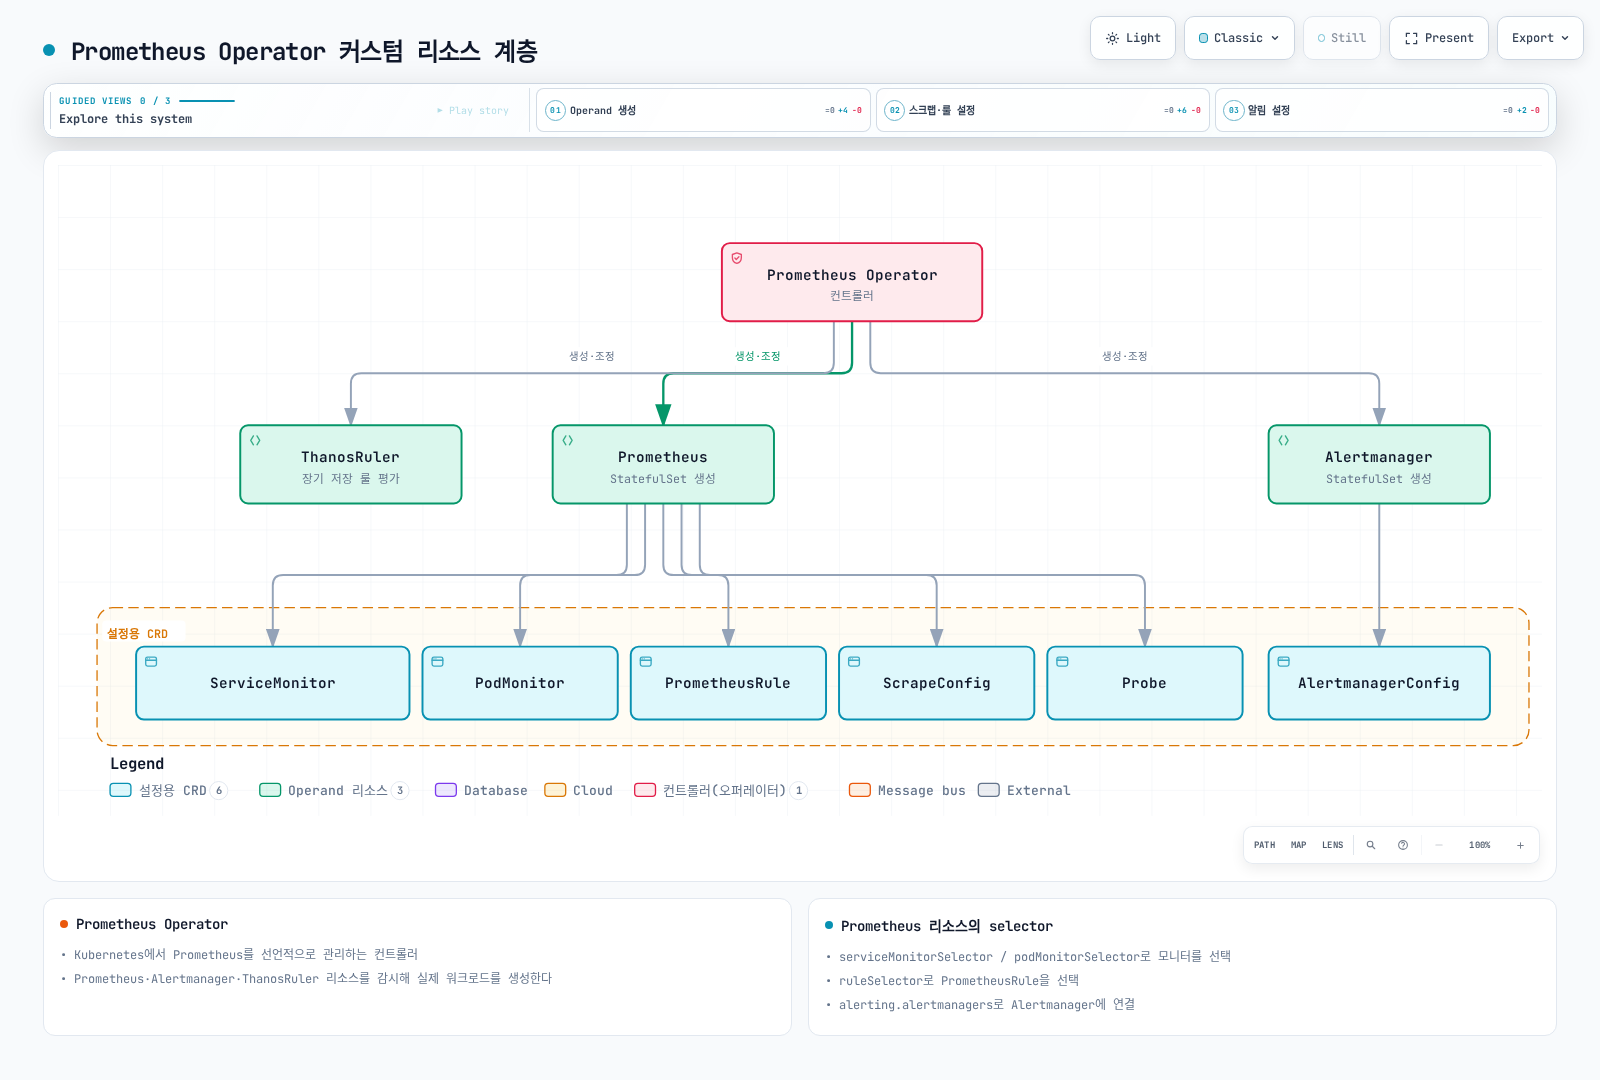
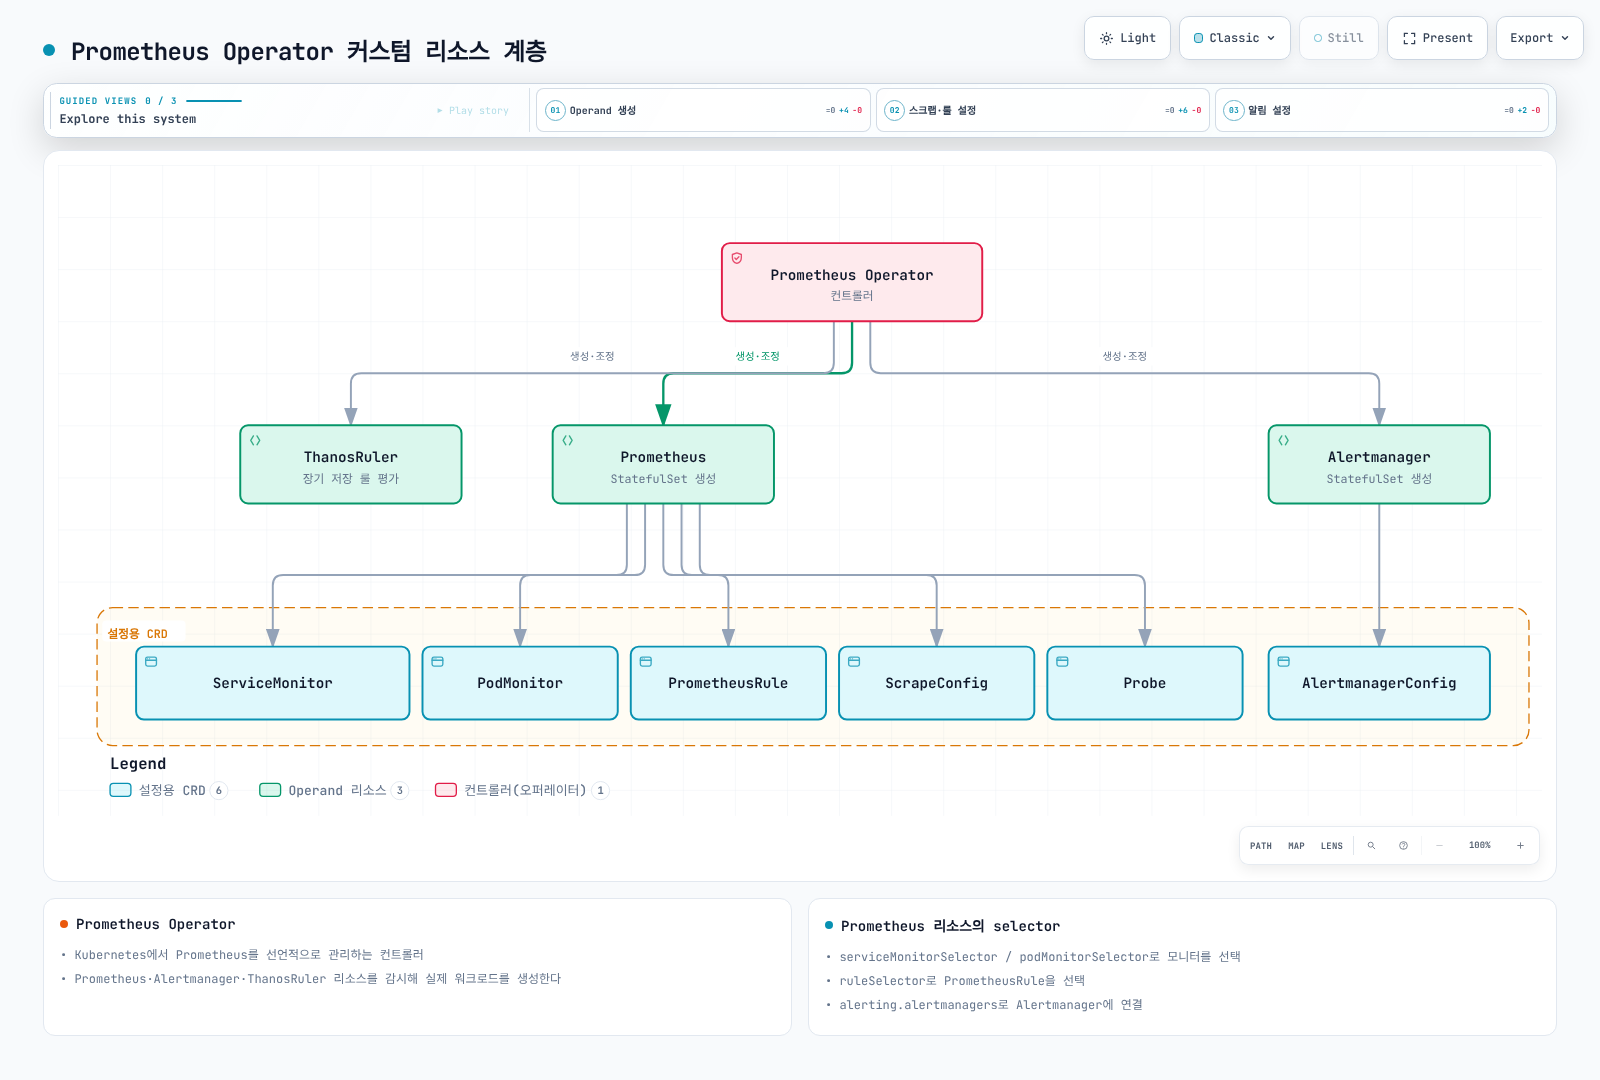
fix(observability): address content-review warnings
- en metrics README stems renumbered 10-13 -> 0-3
- metrics-01-prometheus-1 legend mode all -> auto (no empty categories)
- ko alertmanager alt ending normalised
- en alerting README: hybrid pipeline figure moved under Hybrid Approach, on-call Gantt under On-Call Concept

diff --git a/public/archmaps/ko-observability-metrics-01-prometheus-1.html b/public/archmaps/ko-observability-metrics-01-prometheus-1.html
@@ -5204,25 +5204,9 @@
             <rect x="155" y="475" width="16" height="10" rx="2.5" class="c-backend" stroke-width="1"/>
             <text x="177" y="484" class="t-muted" font-size="10" font-weight="500">Operand 리소스</text>
           </g>
-          <g data-legend-semantic-kind="database" data-legend-x="290" data-legend-baseline="484" data-legend-width="62">
-            <rect x="290" y="475" width="16" height="10" rx="2.5" class="c-database" stroke-width="1"/>
-            <text x="312" y="484" class="t-muted" font-size="10" font-weight="500">Database</text>
-          </g>
-          <g data-legend-semantic-kind="cloud" data-legend-x="374" data-legend-baseline="484" data-legend-width="47">
-            <rect x="374" y="475" width="16" height="10" rx="2.5" class="c-cloud" stroke-width="1"/>
-            <text x="396" y="484" class="t-muted" font-size="10" font-weight="500">Cloud</text>
-          </g>
-          <g data-legend-semantic-kind="security" data-legend-kind="security" data-legend-label="컨트롤러(오퍼레이터)" data-legend-x="443" data-legend-baseline="484" data-legend-width="143">
-            <rect x="443" y="475" width="16" height="10" rx="2.5" class="c-security" stroke-width="1"/>
-            <text x="465" y="484" class="t-muted" font-size="10" font-weight="500">컨트롤러(오퍼레이터)</text>
-          </g>
-          <g data-legend-semantic-kind="messagebus" data-legend-x="608" data-legend-baseline="484" data-legend-width="77">
-            <rect x="608" y="475" width="16" height="10" rx="2.5" class="c-messagebus" stroke-width="1"/>
-            <text x="630" y="484" class="t-muted" font-size="10" font-weight="500">Message bus</text>
-          </g>
-          <g data-legend-semantic-kind="external" data-legend-x="707" data-legend-baseline="484" data-legend-width="62">
-            <rect x="707" y="475" width="16" height="10" rx="2.5" class="c-external" stroke-width="1"/>
-            <text x="729" y="484" class="t-muted" font-size="10" font-weight="500">External</text>
+          <g data-legend-semantic-kind="security" data-legend-kind="security" data-legend-label="컨트롤러(오퍼레이터)" data-legend-x="290" data-legend-baseline="484" data-legend-width="143">
+            <rect x="290" y="475" width="16" height="10" rx="2.5" class="c-security" stroke-width="1"/>
+            <text x="312" y="484" class="t-muted" font-size="10" font-weight="500">컨트롤러(오퍼레이터)</text>
           </g>
         </g>
       </svg>

diff --git a/public/archmaps/en-observability-metrics-01-prometheus-1.html b/public/archmaps/en-observability-metrics-01-prometheus-1.html
@@ -5204,25 +5204,9 @@
             <rect x="195" y="475" width="16" height="10" rx="2.5" class="c-backend" stroke-width="1"/>
             <text x="217" y="484" class="t-muted" font-size="10" font-weight="500">Operand resources</text>
           </g>
-          <g data-legend-semantic-kind="database" data-legend-x="345" data-legend-baseline="484" data-legend-width="62">
-            <rect x="345" y="475" width="16" height="10" rx="2.5" class="c-database" stroke-width="1"/>
-            <text x="367" y="484" class="t-muted" font-size="10" font-weight="500">Database</text>
-          </g>
-          <g data-legend-semantic-kind="cloud" data-legend-x="429" data-legend-baseline="484" data-legend-width="47">
-            <rect x="429" y="475" width="16" height="10" rx="2.5" class="c-cloud" stroke-width="1"/>
-            <text x="451" y="484" class="t-muted" font-size="10" font-weight="500">Cloud</text>
-          </g>
-          <g data-legend-semantic-kind="security" data-legend-kind="security" data-legend-label="Controller (Operator)" data-legend-x="498" data-legend-baseline="484" data-legend-width="148">
-            <rect x="498" y="475" width="16" height="10" rx="2.5" class="c-security" stroke-width="1"/>
-            <text x="520" y="484" class="t-muted" font-size="10" font-weight="500">Controller (Operator)</text>
-          </g>
-          <g data-legend-semantic-kind="messagebus" data-legend-x="668" data-legend-baseline="484" data-legend-width="77">
-            <rect x="668" y="475" width="16" height="10" rx="2.5" class="c-messagebus" stroke-width="1"/>
-            <text x="690" y="484" class="t-muted" font-size="10" font-weight="500">Message bus</text>
-          </g>
-          <g data-legend-semantic-kind="external" data-legend-x="767" data-legend-baseline="484" data-legend-width="62">
-            <rect x="767" y="475" width="16" height="10" rx="2.5" class="c-external" stroke-width="1"/>
-            <text x="789" y="484" class="t-muted" font-size="10" font-weight="500">External</text>
+          <g data-legend-semantic-kind="security" data-legend-kind="security" data-legend-label="Controller (Operator)" data-legend-x="345" data-legend-baseline="484" data-legend-width="148">
+            <rect x="345" y="475" width="16" height="10" rx="2.5" class="c-security" stroke-width="1"/>
+            <text x="367" y="484" class="t-muted" font-size="10" font-weight="500">Controller (Operator)</text>
           </g>
         </g>
       </svg>

diff --git a/en/observability/metrics/README.md b/en/observability/metrics/README.md
@@ -154,9 +154,9 @@ http_request_duration_seconds{quantile="0.99"}           # p99 latency (direct q
 
 There are two main models for metrics collection:
 
-![Diagram comparing the pull model, where a Prometheus server scrapes /metrics endpoints from applications over HTTP GET, against the push model, where applications send metrics via HTTP POST to a central collector such as Datadog or CloudWatch.](../../.gitbook/assets/en-observability-metrics-readme-10.png)
+![Diagram comparing the pull model, where a Prometheus server scrapes /metrics endpoints from applications over HTTP GET, against the push model, where applications send metrics via HTTP POST to a central collector such as Datadog or CloudWatch.](../../.gitbook/assets/en-observability-metrics-readme-0.png)
 
-[🔍 View interactive diagram](https://www.atomai.click/kubernetes-docs/archmaps/en-observability-metrics-readme-10.html)
+[🔍 View interactive diagram](https://www.atomai.click/kubernetes-docs/archmaps/en-observability-metrics-readme-0.html)
 
 ### Pull Model
 
@@ -306,9 +306,9 @@ count(count by (endpoint)(http_requests_total))
 
 Prometheus is an excellent real-time monitoring tool but has limitations for long-term data storage:
 
-![Diagram showing Prometheus, with 15-30 day retention, serving real-time alerts, recent trends, and immediate debugging directly, while forwarding data via remote_write into long-term storage (VictoriaMetrics, Mimir, or Thanos) kept 1+ year for capacity planning, annual trends, compliance, and cost analysis.](../../.gitbook/assets/en-observability-metrics-readme-11.png)
+![Diagram showing Prometheus, with 15-30 day retention, serving real-time alerts, recent trends, and immediate debugging directly, while forwarding data via remote_write into long-term storage (VictoriaMetrics, Mimir, or Thanos) kept 1+ year for capacity planning, annual trends, compliance, and cost analysis.](../../.gitbook/assets/en-observability-metrics-readme-1.png)
 
-[🔍 View interactive diagram](https://www.atomai.click/kubernetes-docs/archmaps/en-observability-metrics-readme-11.html)
+[🔍 View interactive diagram](https://www.atomai.click/kubernetes-docs/archmaps/en-observability-metrics-readme-1.html)
 
 **Problems with Prometheus long-term storage**:
 
@@ -383,17 +383,17 @@ remote_write:
 
 ### Selection Guide
 
-![Decision tree for picking a metrics stack: starting from team size and operational capability, it branches on AWS environment for small teams, cost priority for medium teams, and multi-cloud need for large/expert teams, ending at CloudWatch, Datadog, VictoriaMetrics, Amazon Managed Prometheus, or an AMP + Grafana managed setup.](../../.gitbook/assets/en-observability-metrics-readme-12.png)
+![Decision tree for picking a metrics stack: starting from team size and operational capability, it branches on AWS environment for small teams, cost priority for medium teams, and multi-cloud need for large/expert teams, ending at CloudWatch, Datadog, VictoriaMetrics, Amazon Managed Prometheus, or an AMP + Grafana managed setup.](../../.gitbook/assets/en-observability-metrics-readme-2.png)
 
-[🔍 View interactive diagram](https://www.atomai.click/kubernetes-docs/archmaps/en-observability-metrics-readme-12.html)
+[🔍 View interactive diagram](https://www.atomai.click/kubernetes-docs/archmaps/en-observability-metrics-readme-2.html)
 
 ## Metrics Collection Architecture
 
 ### Kubernetes Environment Metrics Collection Structure
 
-![Diagram showing node-exporter, kube-state-metrics, cAdvisor, and application /metrics endpoints scraped by Prometheus or vmagent, which writes to short-term Prometheus TSDB and via remote_write to long-term VictoriaMetrics; both feed Grafana, and TSDB feeds Alertmanager.](../../.gitbook/assets/en-observability-metrics-readme-13.png)
+![Diagram showing node-exporter, kube-state-metrics, cAdvisor, and application /metrics endpoints scraped by Prometheus or vmagent, which writes to short-term Prometheus TSDB and via remote_write to long-term VictoriaMetrics; both feed Grafana, and TSDB feeds Alertmanager.](../../.gitbook/assets/en-observability-metrics-readme-3.png)
 
-[🔍 View interactive diagram](https://www.atomai.click/kubernetes-docs/archmaps/en-observability-metrics-readme-13.html)
+[🔍 View interactive diagram](https://www.atomai.click/kubernetes-docs/archmaps/en-observability-metrics-readme-3.html)
 
 ### Key Metric Sources
 

diff --git a/en/observability/alerting/README.md b/en/observability/alerting/README.md
@@ -265,6 +265,10 @@ Set up time-based escalation policies to ensure alerts are not ignored:
 
 On-call refers to a designated responder responsible for system issues during a specified period.
 
+![Gantt chart showing four SRE engineers each taking a sequential seven-day on-call shift over four weeks.](../../.gitbook/assets/en-observability-alerting-readme-8.png)
+
+[🔍 View interactive diagram](https://www.atomai.click/kubernetes-docs/archmaps/en-observability-alerting-readme-8.html)
+
 ![Flowchart showing an alert routed first by severity to a phone, PagerDuty, Slack, or email channel, then, for the three actionable severities, routed again by owning team to SRE, dev, DBA, or security.](../../.gitbook/assets/en-observability-alerting-readme-5.png)
 
 [🔍 View interactive diagram](https://www.atomai.click/kubernetes-docs/archmaps/en-observability-alerting-readme-5.html)
@@ -432,10 +436,6 @@ EKS integrates with various AWS services, so alerts for these are also needed:
 
 ### Solution Selection Guide
 
-![Architecture diagram of a hybrid alerting pipeline: Prometheus and CloudWatch feed Alertmanager, which routes to Grafana OnCall and PagerDuty for on-call management, fanning out to Slack, email, and SMS notification channels.](../../.gitbook/assets/en-observability-alerting-readme-7.png)
-
-[🔍 View interactive diagram](https://www.atomai.click/kubernetes-docs/archmaps/en-observability-alerting-readme-7.html)
-
 #### Recommended Solutions by Situation
 
 1. **Small team, cost-conscious**: Alertmanager + Slack
@@ -448,9 +448,9 @@ EKS integrates with various AWS services, so alerts for these are also needed:
 
 Most production environments use a combination of solutions:
 
-![Gantt chart showing four SRE engineers each taking a sequential seven-day on-call shift over four weeks.](../../.gitbook/assets/en-observability-alerting-readme-8.png)
+![Architecture diagram of a hybrid alerting pipeline: Prometheus and CloudWatch feed Alertmanager, which routes to Grafana OnCall and PagerDuty for on-call management, fanning out to Slack, email, and SMS notification channels.](../../.gitbook/assets/en-observability-alerting-readme-7.png)
 
-[🔍 View interactive diagram](https://www.atomai.click/kubernetes-docs/archmaps/en-observability-alerting-readme-8.html)
+[🔍 View interactive diagram](https://www.atomai.click/kubernetes-docs/archmaps/en-observability-alerting-readme-7.html)
 
 **Recommended Architecture:**
 

diff --git a/ko/observability/alerting/01-alertmanager.md b/ko/observability/alerting/01-alertmanager.md
@@ -621,7 +621,7 @@ curl -X POST http://alertmanager:9093/api/v2/silences \
 
 ### Silence 관리 모범 사례
 
-![Silence가 필요할 때 유지보수·배포·조사 중·알려진 이슈 유형에 따라 기간(계획된 시간, 배포 완료까지, 최대 4시간, 수정 완료까지)을 정하고 명확한 코멘트를 남긴 뒤, 정기 검토를 거쳐 만료된 Silence는 자동 제거되고 아직 만료되지 않은 Silence는 수동 검토로 이어지는 흐름을 보여줍니다.](../../.gitbook/assets/ko-observability-alerting-01-alertmanager-5.png)
+![Silence가 필요할 때 유지보수·배포·조사 중·알려진 이슈 유형에 따라 기간(계획된 시간, 배포 완료까지, 최대 4시간, 수정 완료까지)을 정하고 명확한 코멘트를 남긴 뒤, 정기 검토를 거쳐 만료된 Silence는 자동 제거되고 아직 만료되지 않은 Silence는 수동 검토로 이어지는 흐름을 보여준다.](../../.gitbook/assets/ko-observability-alerting-01-alertmanager-5.png)
 
 [🔍 인터랙티브 다이어그램 보기](https://www.atomai.click/kubernetes-docs/archmaps/ko-observability-alerting-01-alertmanager-5.html)
 
